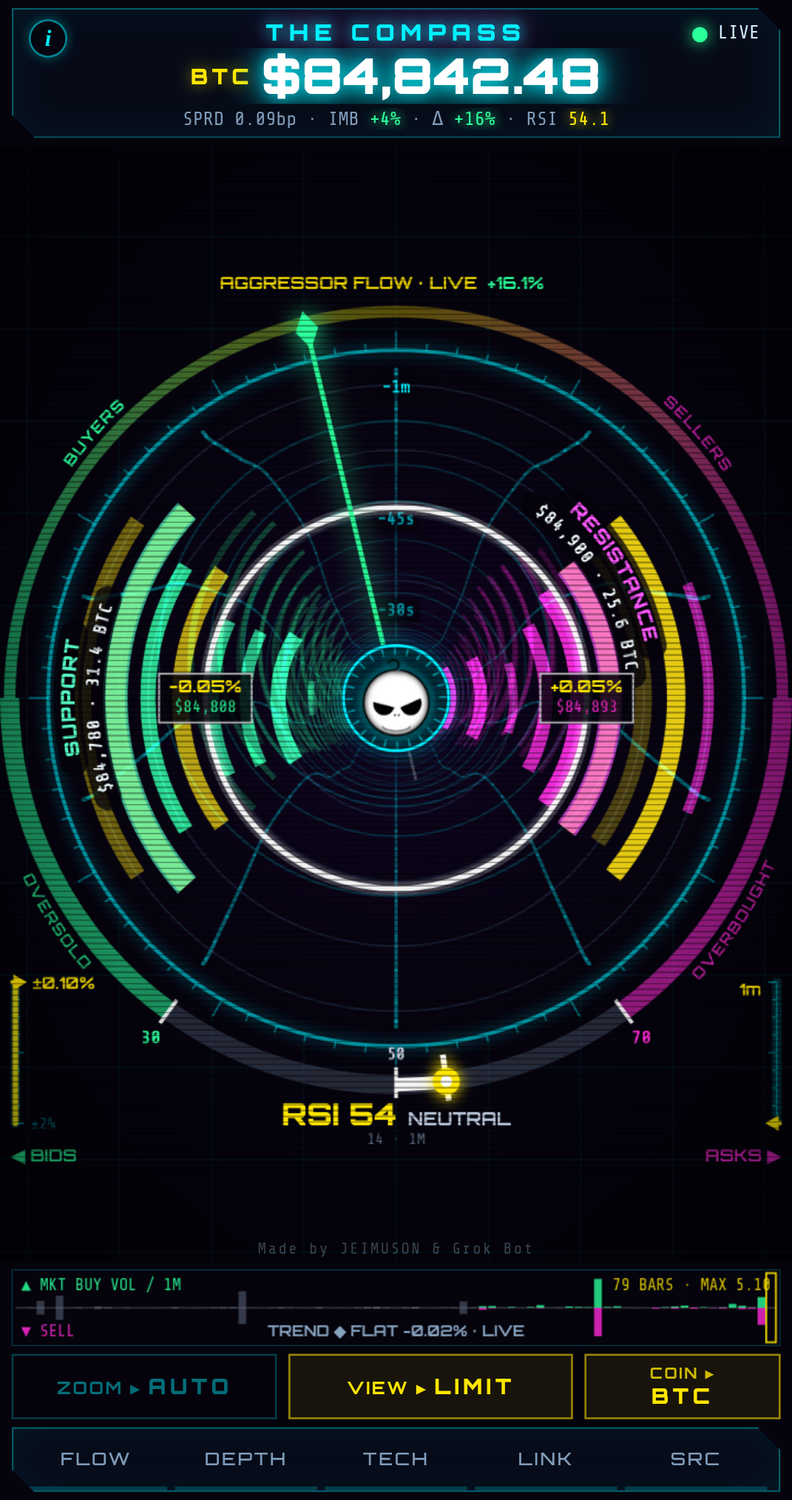
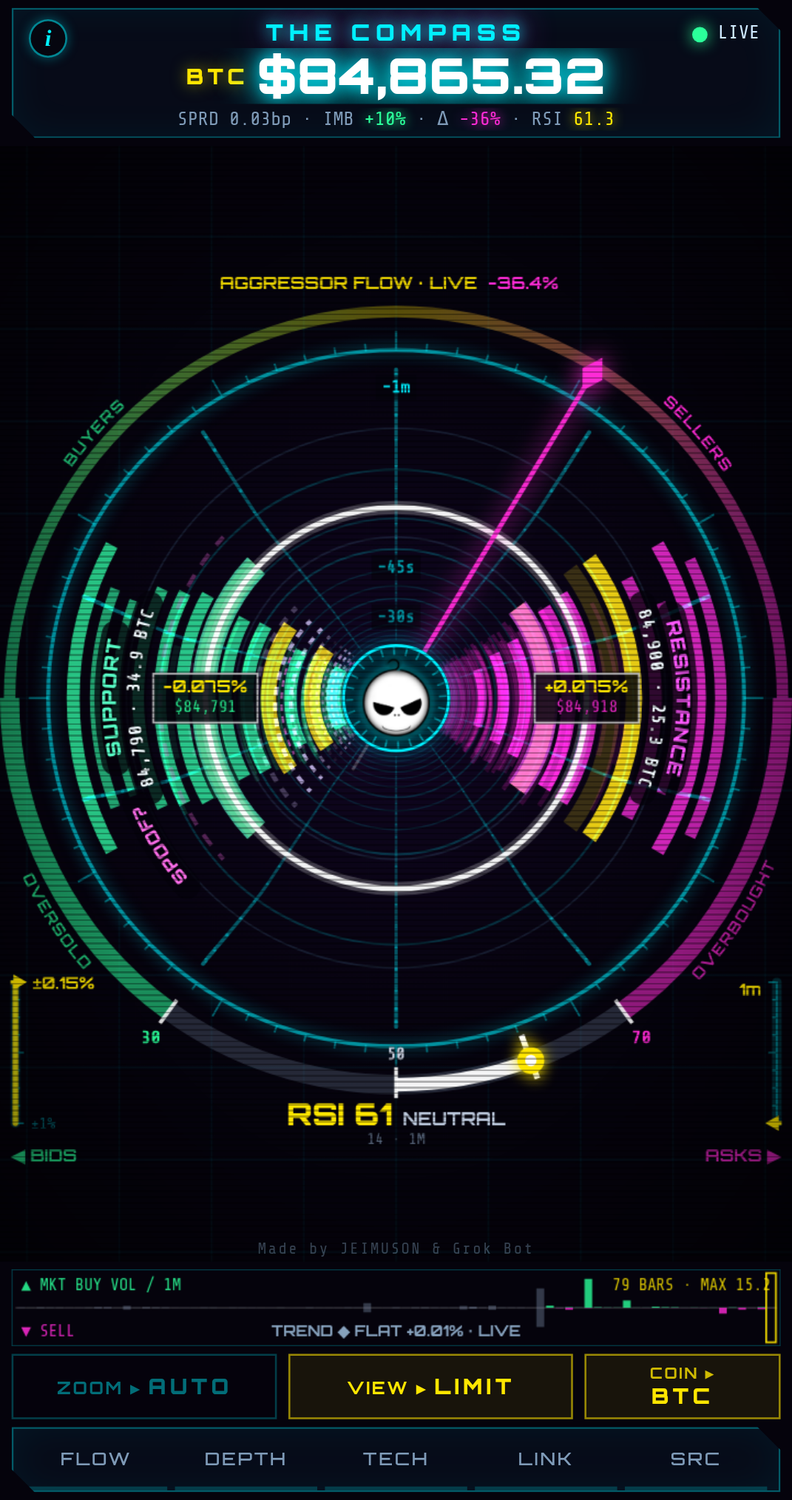
Build 20261003-1300: LIMIT declutter (labels outside halfway circle, no ring price tags/BOOK EDGE text); price AUTO driven by traffic, range ±0.15–1%

diff --git a/index.html b/index.html
@@ -3,7 +3,7 @@
 <head>
 <meta charset="utf-8">
 <meta http-equiv="Cache-Control" content="no-cache, no-store, must-revalidate"><meta http-equiv="Pragma" content="no-cache"><meta http-equiv="Expires" content="0">
-<script>window.OFC_BUILD='20261003-1205';try{localStorage.removeItem('ofc.trail')}catch(e){};(function(){try{if(!/^https?:/.test(location.protocol))return;fetch(location.pathname+'?_='+Date.now(),{cache:'no-store'}).then(r=>r.text()).then(t=>{const m=t.match(/OFC_BUILD='([^']+)'/);if(m&&m[1]!==window.OFC_BUILD&&sessionStorage.getItem('ofcB')!==m[1]){sessionStorage.setItem('ofcB',m[1]);location.replace(location.pathname+'?v='+m[1]+location.hash);}}).catch(()=>{});}catch(e){}})();</script>
+<script>window.OFC_BUILD='20261003-1300';try{localStorage.removeItem('ofc.trail')}catch(e){};(function(){try{if(!/^https?:/.test(location.protocol))return;fetch(location.pathname+'?_='+Date.now(),{cache:'no-store'}).then(r=>r.text()).then(t=>{const m=t.match(/OFC_BUILD='([^']+)'/);if(m&&m[1]!==window.OFC_BUILD&&sessionStorage.getItem('ofcB')!==m[1]){sessionStorage.setItem('ofcB',m[1]);location.replace(location.pathname+'?v='+m[1]+location.hash);}}).catch(()=>{});}catch(e){}})();</script>
 <script>/* viewport height guard: Android standalone PWAs can report a stale/too-tall 100dvh right after a reload (e.g. coin switch) -> size from the smallest sane measurement and keep re-checking */
 (function(){var R=document.documentElement;function m(){var v=window.visualViewport,c=[window.innerHeight,R.clientHeight];if(v&&v.height>0)c.push(v.height);c=c.filter(function(x){return x>100;});if(!c.length)return;
   var h=Math.round(Math.min.apply(null,c))+'px';if(R.style.getPropertyValue('--apph')!==h){R.style.setProperty('--apph',h);try{window.dispatchEvent(new Event('ofc-vh'));}catch(e){}}}
@@ -198,7 +198,7 @@ body.hublogo #top .logo{display:none}   /* mobile: logo lives in the compass hub
  <ul><li>Arcs are <b>walls</b> of waiting orders: <b class="gr">buyers left</b>, <b class="rd">sellers right</b>.</li>
  <li>Distance from the middle = distance from the current price.</li>
  <li>Bigger, brighter arc = bigger wall.</li>
- <li><b>Price zoom</b> (bar opposite the time bar, ±0.1%–±2%): out shows walls further from price, in spreads the near ones. Phone: swipe ←/→ for price, ↑/↓ for time. Desktop: shift+wheel or the bar. <b>AUTO</b> fits the biggest bid and ask walls in clean steps (±0.1/0.2/0.5/1/2%; the white halfway circle's boxes show price and ±% there); zooming price by hand turns price AUTO off.</li>
+ <li><b>Price zoom</b> (bar opposite the time bar, ±0.15%–±1%): out shows walls further from price, in spreads the near ones. Phone: swipe ←/→ for price, ↑/↓ for time. Desktop: shift+wheel or the bar. <b>AUTO</b> follows traffic, like time AUTO: dead-slow ±0.15%, normal ±0.5%, busy or a burst ±1%, in clean steps (±0.15/0.25/0.5/0.75/1%; the white halfway circle's boxes show price and ±% there); zooming price by hand turns price AUTO off.</li>
  <li>New walls start at the center and drift outward over time. A wall that stays is <b>holding</b>; one that vanishes was <b>pulled or eaten</b>.</li>
  <li><b class="gr">SUPPORT</b> / <b class="rd">RESISTANCE</b> = the strongest nearby wall on each side.</li>
  <li><b>EATEN</b> (bright bite flash) = a wall shrank while trades hit its price. <b>PULLED</b> (ghostly dashed outline) = it vanished with little trading there; repeat pulls in one zone = <b>SPOOF?</b> Just a hint: intent can't be proven.</li></ul>
@@ -372,14 +372,15 @@ let needle=0, needleV=0;
 try{localStorage.removeItem('ofc.win');localStorage.removeItem('ofc.flowCache.v1');}catch(e){}
 const WL=sec=>sec<=60?'LIVE':sec<3600?(sec/60)+'M':(sec/3600)+'H';
 let rangeAuto=(()=>{try{return localStorage.getItem('ofc.autoZoom')!=='0';}catch(e){return true;}})(), rangeFrac=0.006, dispRange=0.006, PRANGE=0.006, PFIT=0.006;
-// LIMIT PRICE ZOOM (manual, per coin): half-range around price at the outer ring, ±0.1% .. ±2% (log); AUTO never touches it. Drawn range PRANGE eases to PZ.
-const PZMIN=0.001,PZMAX=0.02,PCUT=0.023,PZDEF={XRP:0.01,BTC:0.016,ETH:0.013,SOL:0.012,DOGE:0.02,ADA:0.013,LINK:0.016,LTC:0.017,AVAX:0.015,XLM:0.02};
+// LIMIT PRICE ZOOM (per coin): half-range around price at the outer ring, ±0.15% .. ±1% (log). Drawn range PRANGE eases to PZ.
+const PZMIN=0.0015,PZMAX=0.01,PCUT=0.023,PZDEF={XRP:0.005,BTC:0.005,ETH:0.005,SOL:0.005,DOGE:0.0075,ADA:0.005,LINK:0.005,LTC:0.005,AVAX:0.005,XLM:0.0075};
 let PZ=(()=>{let v=NaN;try{v=parseFloat(localStorage.getItem('ofc.pz.'+COIN));}catch(e){}return v>=PZMIN&&v<=PZMAX?v:(PZDEF[COIN]||0.012);})();PRANGE=PZ;
-const fmtPct=v=>{const p=v*100;return (p<0.995?p.toFixed(2):p.toFixed(1))+'%';};
+const fmtPct=v=>{const p=v*100;return (p<0.995?String(+p.toFixed(3)):p.toFixed(1))+'%';};   // 0.075%, 0.15%, 0.5%, 1.0%
 let ZRD={txt:'',t:-1e9};function zRead(t){ZRD={txt:t,t:performance.now()};}   // brief on-screen zoom readout
-// LIMIT price AUTO (same AUTO toggle): fit the biggest significant bid + ask wall (within ±2%, KEY-wall score) with 15% margin, ~10 s smoothed,
-// snapped to clean steps so the halfway-circle readouts show round ±% numbers. Hysteresis: widen after 3 s, narrow only with 15% spare room held 15 s. Manual price zoom turns it off.
-const PSTEPS=[0.001,0.002,0.005,0.01,0.02];   // halfway readouts then read ±0.05/0.1/0.25/0.5/1%
+// LIMIT price AUTO (same AUTO toggle): driven by TRAFFIC (LT.q = MARKET's 60 s USD rate / 10-min EMA, same as time AUTO):
+// q<=0.25 -> ±0.15%, q=1 -> ±0.5%, q>=2 or burst -> ±1% (log-interpolated), ~10 s smoothed, snapped to clean steps (halfway boxes read ±0.075/0.125/0.25/0.375/0.5%).
+// Hysteresis: step only when 8% past the log-midpoint to the next step; widen after 3 s, narrow after 15 s. Manual price zoom turns it off.
+const PSTEPS=[0.0015,0.0025,0.005,0.0075,0.01];   // ±0.15/0.25/0.5/0.75/1%
 let PAUTO=(()=>{try{return localStorage.getItem('ofc.pauto')!=='0';}catch(e){return true;}})(),PA={want:0,since:0,req:0,ch:0};
 function setPAuto(v){PAUTO=!!v;PA.since=0;PA.want=0;try{localStorage.setItem('ofc.pauto',v?'1':'0');}catch(e){}}
 let pzSaveT=0;function setPZ(v){setPAuto(false);PZ=Math.min(PZMAX,Math.max(PZMIN,v));clearTimeout(pzSaveT);pzSaveT=setTimeout(()=>{try{localStorage.setItem('ofc.pz.'+COIN,PZ.toFixed(5));}catch(e){}},300);zRead('±'+fmtPct(PZ));}   // dispRange = zoom-bar state; PRANGE = price range actually drawn
@@ -659,15 +660,14 @@ function combine(){
   mid=simPx(one?(bestBid+bestAsk)/2:M);if(!dispMid)dispMid=mid;BREADY=true;
 }
 setInterval(()=>{if(combDirty)combine();},LOWDEV()?250:150);
-setInterval(()=>{if(!PAUTO||!BREADY||!mid||VIEW!=='limit')return;const lim=mid*PZMAX,n=Date.now();
-  const pick=lv=>{let best=null,bs=-1;for(const x of lv){const d=Math.abs(x[0]-mid);if(d>lim)continue;const sc=x[1]*(1-0.45*d/lim);if(sc>bs){bs=sc;best=x;}}return best;};
-  const b=pick(sortedB),a=pick(sortedA);if(!b||!a)return;
-  const raw=Math.max(mid-b[0],a[0]-mid)/mid*1.15;PA.req=PA.req?PA.req+(raw-PA.req)*0.1:raw;PA.b=b[0];PA.a=a[0];
-  const fit=PSTEPS.find(x=>x>=PA.req)||PZMAX;
-  if(!PSTEPS.includes(PZ)){PZ=fit;PA.ch++;return;}   // entering AUTO: snap to the clean step that fits
-  const want=fit>PZ||(fit<PZ&&PA.req<=0.85*fit)?fit:PZ;
-  if(want===PZ){PA.want=0;return;}
-  if(PA.want!==want){PA.want=want;PA.since=n;}else if(n-PA.since>=(want>PZ?3000:15000)){PZ=want;PA.want=0;PA.ch++;}},1000);
+const pzOfQ=q=>{const l=Math.log2(Math.max(0.25,Math.min(2,q)));return l<0?0.005*Math.pow(0.3,-l/2):0.005*Math.pow(2,l);};   // 0.25->0.15%, 1->0.5%, 2->1%
+setInterval(()=>{if(!PAUTO||!mid||VIEW!=='limit')return;const n=Date.now(),busy=n<burst.until;
+  const raw=busy?PZMAX:pzOfQ(LT.q||1);PA.q=LT.q;PA.req=busy?raw:(PA.req?PA.req+(raw-PA.req)*0.1:raw);
+  let i=PSTEPS.indexOf(PZ);
+  if(i<0){PZ=PSTEPS.reduce((a,x)=>Math.abs(Math.log(x/PA.req))<Math.abs(Math.log(a/PA.req))?x:a);PA.ch++;return;}   // entering AUTO: snap to the nearest clean step
+  let j=i;while(j<PSTEPS.length-1&&PA.req>Math.sqrt(PSTEPS[j]*PSTEPS[j+1])*1.08)j++;while(j>0&&PA.req<Math.sqrt(PSTEPS[j-1]*PSTEPS[j])/1.08)j--;
+  const want=PSTEPS[j];if(want===PZ){PA.want=0;return;}
+  if(PA.want!==want){PA.want=want;PA.since=n;}else if(n-PA.since>=(want>PZ?(busy?0:3000):15000)){PZ=want;PA.want=0;PA.ch++;}},1000);
 let VEDGE={bid:[],ask:[]};   // [price, venue] where that venue's USD book ends, nearest first (only edges inside ±PZMAX)
 setInterval(()=>{if(!mid||VIEW!=='limit')return;const E={};for(const B of useB().filter(B=>!B.q)){/* each venue's main USD book (stable books are thin extras with sparse outlier quotes) */let mb=Infinity,ma=0;for(const p of B.b.keys())if(p<mb)mb=p;for(const p of B.a.keys())if(p>ma)ma=p;if(!(mb<Infinity)||!ma)continue;
     const e=E[B.v]||(E[B.v]={b:Infinity,a:0});e.b=Math.min(e.b,mb);e.a=Math.max(e.a,ma);}
@@ -1055,9 +1055,8 @@ let PLBL=[];
 const PF=p=>'$'+(CC.pf>=4?p.toFixed(CC.pf):fmtX(p,CC.pf));
 let HALF=null;   // halfway readout boxes (geometry from drawPriceRings)
 function drawHalfBoxes(){if(!HALF)return;const {w,h,f1,f2,rh}=HALF,T=Math.PI*2,lw=WIDE?Math.min(5,Math.max(3.2,RMAX/90)):2.8;
-  // halfway circle: drawn ABOVE the wall arcs (soft white glow + crisp core); gapped where a SUPPORT/RESISTANCE label crosses its radius
-  const G=[];for(const sd of ['bid','ask']){const k=KLB[sd];if(k&&k.th!=null&&k.r0<rh+lw&&k.r1>rh-lw){const g=k.ah+0.03,n=(((k.th-g)%T)+T)%T;G.push([n,n+2*g]);}}
-  const segs=[];if(!G.length)segs.push([0,T]);else{G.sort((a,b)=>a[0]-b[0]);for(let i=0;i<G.length;i++){const e=G[i][1],ns=i+1<G.length?G[i+1][0]:G[0][0]+T;if(ns>e)segs.push([e,ns]);}}
+  // halfway circle: drawn ABOVE the wall arcs (soft white glow + crisp core)
+  const segs=[[0,T]];   // labels now always sit outside the circle -> no gaps needed
   ctx.save();ctx.lineCap='round';
   for(const [st,lwp,blur,a] of [['rgba(255,255,255,.22)',lw+4,Q>0?18:0,1],['rgba(255,255,255,.93)',lw,Q>0?7:0,1]]){ctx.strokeStyle=st;ctx.lineWidth=lwp;ctx.shadowColor='rgba(255,255,255,.9)';ctx.shadowBlur=blur;
     ctx.beginPath();for(const [a0,a1] of segs){ctx.moveTo(CX+Math.cos(a0)*rh,CY+Math.sin(a0)*rh);ctx.arc(CX,CY,rh,a0,a1);}ctx.stroke();}
@@ -1068,13 +1067,7 @@ function drawHalfBoxes(){if(!HALF)return;const {w,h,f1,f2,rh}=HALF,T=Math.PI*2,l
     ctx.font=`${f2}px "Share Tech Mono",monospace`;ctx.fillStyle=side==='bid'?'rgba(43,255,154,.95)':'rgba(255,43,214,.95)';ctx.fillText(p,x,by+f1+5);}
   ctx.restore();}
 function drawPriceLabels(){   // LIMIT: ring prices on the horizontal axis, over the walls
-  drawHalfBoxes();if(!PLBL.length)return;ctx.save();ctx.font=`${WIDE?10:9}px "Share Tech Mono",monospace`;ctx.textAlign='center';ctx.textBaseline='top';
-  PLBL=PLBL.filter(q=>{const K=KLB[q.side];if(!K)return true;const d=Math.abs(q.cx-CX);return d+q.w/2<K.r0||d-q.w/2>K.r1;});   // never draw over SUPPORT/RESISTANCE text
-  if(!PLBL.length){ctx.restore();return;}
-  for(const q of PLBL){ctx.fillStyle='rgba(5,3,12,.72)';ctx.fillRect(q.x,q.y,q.w,q.h);ctx.fillStyle=q.side==='bid'?'rgba(43,255,154,.9)':'rgba(255,43,214,.9)';ctx.fillText(q.txt,q.cx,q.y+2);}
-  const o=PLBL.filter(q=>q.side==='bid').sort((a,b)=>a.x-b.x)[0];
-  if(o){ctx.font=`700 ${WIDE?9:8}px "Share Tech Mono",monospace`;ctx.fillStyle='rgba(200,215,235,.75)';ctx.fillText('PRICE',o.cx,o.y+o.h+1);}
-  ctx.restore();}
+  drawHalfBoxes();}   // decluttered: the per-ring price tags + 'PRICE' caption are gone; the two fixed halfway boxes are the price readout
 function drawPriceRings(){
   if(!dispMid)return;
   ctx.save();
@@ -1091,9 +1084,6 @@ function drawPriceRings(){
   if(VIEW!=='market')for(let d=nice;d<=span*1.001;d+=nice){ri++;
     const r=rOf(d);
     ctx.strokeStyle='rgba(120,200,255,0.13)';ctx.lineWidth=1;ctx.beginPath();ctx.arc(CX,CY,r,0,Math.PI*2);ctx.stroke();
-    for(const [side,px,x] of [['bid',dispMid-d,CX-r],['ask',dispMid+d,CX+r]]){const txt=PF(px),w=ctx.measureText(txt).width+6,bx=x-w/2,by=CY+4,bh=(WIDE?10:9)+4;
-      if(bx<2||bx+w>W-2||PLBL.some(q=>bx<q.x+q.w+3&&bx+w+3>q.x&&Math.abs(q.y-by)<bh)||lblHit(bx,by,w,bh))continue;
-      PLBL.push({x:bx,y:by,w,h:bh,txt,side,cx:x});lblReserve(bx,by,w,bh);}
   }
   // outer bezel
   ctx.strokeStyle='rgba(0,240,255,0.55)';ctx.lineWidth=2;ctx.shadowColor='#00f0ff';ctx.shadowBlur=14;
@@ -1163,16 +1153,18 @@ function drawKeyWalls(now,maxq){   // SUPPORT (bid) / RESISTANCE (ask): highligh
     ctx.save();ctx.globalCompositeOperation='source-over';ctx.strokeStyle=rgba(cc,(0.95*pl).toFixed(3));ctx.lineWidth=lw+2.5;ctx.shadowColor=rgba(c,1);ctx.shadowBlur=Q>0?(LOW?16:28):0;
     ctx.beginPath();ctx.arc(CX,CY,r,a0-sp,a0+sp);ctx.stroke();ctx.restore();
     // text: centred on the angular midpoint of its own wall arc (a0), following the curve, upright (outward-facing); font shrinks with the arc, fades when too small
-    const base1=WIDE?Math.round(Math.max(12,Math.min(16,RMAX/27))):10, sc=Math.max(0.62,Math.min(1,(r-R0)/(RMAX*0.28)));
-    const L1=`${PF(px)} · ${fmtQ(q)} ${UNIT}`,L2=side==='bid'?'SUPPORT':'RESISTANCE', allow=Math.min(1.45,Math.max(0.55,2*sp+0.5));   // text may overhang a short arc a little
-    const lay=k=>{const fs1=Math.max(7,Math.round(base1*sc*k)),fs2=Math.max(7,fs1-1),R1=r+lw/2+4,R2=R1+fs2+3,F1=`700 ${fs2}px "Share Tech Mono",monospace`,F2=`900 ${fs1}px Orbitron,sans-serif`;
+    const base1=WIDE?Math.round(Math.max(12,Math.min(16,RMAX/27))):10, sc=Math.max(0.62,Math.min(1,(Math.max(r,HALF?HALF.r1:0)-R0)/(RMAX*0.28)));   // scale by where the text sits (outside the circle), not the wall
+    const L1u=`${PF(px).replace('$','')} · ${fmtQ(q)} ${UNIT}`,L1n=`${PF(px).replace('$','')} · ${fmtQ(q)}`,L2=side==='bid'?'SUPPORT':'RESISTANCE', allow=Math.min(1.45,Math.max(0.55,2*sp+0.5));
+    const Rmin=HALF?HALF.r1+(WIDE?10:7):0;   // always outside the halfway circle AND its readout boxes (open space), never near the hub
+    let L1=L1u;   // text may overhang a short arc a little
+    const lay=k=>{const fs1=Math.max(7,Math.round(base1*sc*k)),fs2=Math.max(7,fs1-1),R1=Math.max(r+lw/2+4,Rmin),R2=R1+fs2+3,F1=`700 ${fs2}px "Share Tech Mono",monospace`,F2=`900 ${fs1}px Orbitron,sans-serif`;
       ctx.font=F1;const w1=ctx.measureText(L1).width/R1;ctx.font=F2;const w2=ctx.measureText(L2).width/R2;return {fs1,fs2,R1,R2,F1,F2,totM:Math.max(w1,w2)};};
-    let LY=lay(1);if(LY.totM>allow)LY=lay(Math.max(0.72,allow/LY.totM));   // short arc -> shrink the text (down to 72%) ...
+    let LY=lay(1);if(LY.totM>allow){L1=L1n;LY=lay(1);}   // drop the unit if it doesn't fit cleanly
+    if(LY.totM>allow)LY=lay(Math.max(0.72,allow/LY.totM));   // short arc -> shrink the text (down to 72%) ...
     const {fs1,fs2,R1,R2,F1,F2,totM}=LY;
-    let al=Math.max(0,Math.min(1,(r-R0*1.12)/(R0*0.45)))*Math.max(0,Math.min(1,(allow*1.35-totM)/(allow*0.35)));   // ... then fade if still too long / too close to the hub
+    let al=Math.max(0,Math.min(1,(R1-R0*1.12)/(R0*0.45)))*Math.max(0,Math.min(1,(allow*1.35-totM)/(allow*0.35)));   // ... then fade if still too long / too close to the hub
     if(al<=0.03)continue;KLB[side]={r0:R1-3,r1:R2+fs1+3,ah:totM/2+0.04};
-    let TH=a0;if(HALF&&R2+fs1+3>HALF.r0-4&&R1-3<HALF.r1+4)TH=a0+(side==='bid'?1:-1)*(totM/2+(HALF.h/2+6)/R1);   // clear the halfway readout box: slide the text up along its arc
-    KLB[side].th=TH;
+    const TH=a0;
     ctx.save();ctx.globalAlpha=al;ctx.textAlign='center';ctx.textBaseline='alphabetic';
     for(const [txt,R,font,col,glow] of [[L1,R1,F1,'#f2fbff',0],[L2,R2,F2,rgba(cc,1),10]]){
       ctx.font=font;const fz=parseFloat(font.split(' ')[1]),th=TH,T=arcText(txt,R,th);
@@ -1261,17 +1253,14 @@ function drawSpoofFx(now){   // front layer: EATEN/bite flash; PULLED ghost at t
     const u=age/SP_GHOST,fl=0.6+0.4*Math.sin(now/70+o.px*911),col=o.spoof?'255,110,235':'215,200,255';
     ctx.save();ctx.setLineDash([7,6]);ctx.lineDashOffset=-now/45;ctx.lineWidth=2.2;ctx.strokeStyle=`rgba(${col},${((1-u)*0.85*fl).toFixed(3)})`;ctx.shadowColor=`rgba(${col},.9)`;ctx.shadowBlur=Q>0?10:0;
     ctx.beginPath();ctx.arc(CX,CY,r,a0-sp,a0+sp);ctx.stroke();ctx.restore();
-    if(o.big||o.spoof){const fz=WIDE?11:9,txt=o.spoof?'SPOOF?':'PULLED',R=r+fz*0.4+6;ctx.save();ctx.font=`900 ${fz}px Orbitron,sans-serif`;const ht=ctx.measureText(txt).width/R/2+0.02;ctx.restore();
+    if(o.big||o.spoof){const fz=WIDE?11:9,txt=o.spoof?'SPOOF?':'PULLED',R=Math.max(r+fz*0.4+6,HALF?HALF.r1+fz+(WIDE?10:7):0);ctx.save();ctx.font=`900 ${fz}px Orbitron,sans-serif`;const ht=ctx.measureText(txt).width/R/2+0.02;ctx.restore();
       const K=KLB[o.side],off=Math.max(ht+Math.max(0.12,22/R),K&&R+fz>K.r0&&R-fz<K.r1?K.ah+ht+0.04:0),ta=a0+(o.side==='bid'?-off:off);   // just below the horizon (clear of price tags), past SUPPORT/RESISTANCE text
-      spTag(txt,R,ta,o.spoof?'#ff6eeb':'#d7c8ff',Math.min(1,(1-u)*1.6)*Math.max(0,Math.min(1,(r-R0*1.12)/(R0*0.45))),fz);}}
+      spTag(txt,R,ta,o.spoof?'#ff6eeb':'#d7c8ff',Math.min(1,(1-u)*1.6)*Math.max(0,Math.min(1,(R-R0*1.12)/(R0*0.45))),fz);}}   // PULLED/SPOOF? tag always outside the halfway circle
 }
 let topWallsOld;
 function drawBookEdge(){   // faint dashed arc where a venue's book runs out inside the visible price range (+ which venues)
   for(const side of ['bid','ask']){const L=VEDGE[side].filter(([p])=>rOf(p-dispMid)<=RMAX);if(!L.length)continue;const r=rOf(L[0][0]-dispMid);if(r<R0*1.15)continue;
     const a0=baseAng(side),sp=MAXSPAN+0.12;ctx.save();ctx.setLineDash([3,6]);ctx.strokeStyle='rgba(160,190,220,.28)';ctx.lineWidth=1;ctx.beginPath();ctx.arc(CX,CY,r,a0-sp,a0+sp);ctx.stroke();ctx.setLineDash([]);
-    if(r>R0*2.2){const ta=side==='bid'?Math.PI-0.95:0.95,fz=WIDE?9:8,tx=CX+Math.cos(ta)*r,ty=CY+Math.sin(ta)*r,txt='BOOK EDGE '+L.map(x=>VEN[x[1]].t).join('·');   // lower quadrant of its own side
-      ctx.font=`${fz}px "Share Tech Mono",monospace`;const w=ctx.measureText(txt).width+6;ctx.fillStyle='rgba(5,3,12,.7)';ctx.fillRect(tx-w/2,ty-fz/2-2,w,fz+4);
-      ctx.fillStyle='rgba(160,190,220,.6)';ctx.textAlign='center';ctx.textBaseline='middle';ctx.fillText(txt,tx,ty);}
     ctx.restore();}}
 function drawBook(now){
   if(!BREADY||!sortedB.length)return;
@@ -1816,7 +1805,7 @@ function drawZoomBar(now){
     ctx.font='700 12px Orbitron,sans-serif';if(on&&Q>0){ctx.shadowColor='#ffe600';ctx.shadowBlur=8;}ctx.fillText('AUTO',tx+w1,py+ph/2+4.5);ctx.shadowBlur=0;}
   ctx.restore();
 }
-// LIMIT price-zoom bar: mirror of the time bar on the opposite side; top = tight (±0.1%), bottom = wide (±2%), log scale
+// LIMIT price-zoom bar: mirror of the time bar on the opposite side; top = tight (±0.15%), bottom = wide (±1%), log scale
 function pbarGeom(){if(VIEW!=='limit')return null;const Z=zbarGeom();if(!Z)return null;return {x:Math.max(8,Math.min(W-8,2*CX-Z.x)),y0:Z.y0,y1:Z.y1};}
 const pzT=v=>Math.max(0,Math.min(1,Math.log(PZMAX/v)/Math.log(PZMAX/PZMIN))), pzV=t=>PZMAX*Math.pow(PZMIN/PZMAX,Math.max(0,Math.min(1,t)));
 function drawPriceBar(){const P=pbarGeom();if(!P)return;const {x,y0,y1}=P,t=pzT(PRANGE),ty=y1-(y1-y0)*t,col=PAUTO?'0,240,255':'255,230,0';
@@ -1828,7 +1817,7 @@ function drawPriceBar(){const P=pbarGeom();if(!P)return;const {x,y0,y1}=P,t=pzT(
   ctx.fillStyle=`rgb(${col})`;ctx.beginPath();ctx.moveTo(x+6,ty);ctx.lineTo(x-1,ty-4);ctx.lineTo(x-1,ty+4);ctx.closePath();ctx.fill();ctx.fillRect(x-2.5,ty-1,4,2);ctx.shadowBlur=0;
   const ly=Math.max(y0+3,Math.min(y1+3,ty+3.5));ctx.textAlign='left';
   ctx.font=`${WIDE?9:8}px "Share Tech Mono",monospace`;ctx.fillStyle='rgba(0,240,255,.4)';   // scale ends (tight / wide), hidden when the value label sits on them
-  if(ly-(y0+3)>13)ctx.fillText('±0.1%',x+8,y0+3);if((y1+3)-ly>13)ctx.fillText('±2%',x+8,y1+3);
+  if(ly-(y0+3)>13)ctx.fillText('±0.15%',x+8,y0+3);if((y1+3)-ly>13)ctx.fillText('±1%',x+8,y1+3);
   ctx.font=`700 ${WIDE?10:8.5}px Orbitron,sans-serif`;ctx.fillStyle=`rgba(${col},.95)`;ctx.fillText('±'+fmtPct(PZ),x+9,ly);   // current value, beside the marker
   ctx.restore();}
 function drawZRead(now){const a=now-ZRD.t;if(a>1300||!ZRD.txt)return;const al=a<650?1:1-(a-650)/650;ctx.save();ctx.globalAlpha=al;const fz=WIDE?24:20;ctx.font=`900 ${fz}px Orbitron,sans-serif`;
@@ -1957,7 +1946,7 @@ function frame(){
 connect();seedREST();
 requestAnimationFrame(frame);
 document.addEventListener('visibilitychange',()=>{if(!document.hidden&&(!ws||ws.readyState>1)){backoff=1000;connect();}});
-window.__ofc={pillTap(){pillT=0;pillTap();},setAuto(v){setAuto(v);},get zst(){return {pa:PAUTO,ra:rangeAuto,ao:autoOn()};},simEat(ms,kind,hold,px){EAT={t0:Date.now(),ms,kind:kind||'eat',hold:hold==null?0:hold,px:px||0,q0:0,lq:null};},get spoof(){return {n:{...SPF.n},trk:SPF.trk.size,ev:SPF.ev.slice(-6).map(o=>({k:o.kind,s:o.side,px:o.px,q0:+o.q0.toFixed(1),q1:+o.q1.toFixed(1),ratio:o.ratio,spoof:o.spoof,big:o.big,ven:o.ven}))}},get eat(){const n=performance.now();return EAT&&{px:EAT.px,q0:EAT.q0,ref:REFQ,cp:history.filter((h,i)=>i%8===0&&(n-h.t)/1000<=LWIN).map(h=>{const e=h.b.find(x=>x[0]===EAT.px);return e?[Math.round((n-h.t)/1000),+levelSpan(e[1],REFQ||h.maxq).toFixed(3)]:null;}).filter(Boolean)}},get mt(){return {w:+MT.w.toFixed(1),q:+MT.q.toFixed(2),z:+MT.z.toFixed(2),sg:MT.sg,burst:burst.on}},get lt(){return {w:+LT.w.toFixed(1),q:+LT.q.toFixed(2),mq:+MT.q.toFixed(2),rho:+LT.rho.toFixed(2),lwin:+LWIN.toFixed(1),burst:burst.on}},get keyWalls(){return VIEW==='limit'?{...KEYW,nSig:{bid:topWalls.bid.length,ask:topWalls.ask.length},marks:PLBL.map(q=>q.txt)}:null},simFlat(){SIM={on:true,base:mid,t0:0,dir:0,amp:0,ramp:1};},simMove(dir,frac,ramp){SIM.t0=Date.now();SIM.dir=dir;SIM.amp=frac*SIM.base;SIM.ramp=ramp;},get resp(){const v=proj(HIST_SEC),m=proj(HIST_SEC*0.4);return {tw:+(TWIST_MAX*VSP.w*180/Math.PI).toFixed(2),vp:+(v.y-CY).toFixed(1),vm:+(m.y-CY).toFixed(1),o3:+((window.__ofcR||{}).o3||0).toFixed(1),o8:+((window.__ofcR||{}).o8||0).toFixed(1),mw:+MWIN.toFixed(1),dr:dispRange,pr:pathRef}},get bp(){return BP.length},autoOff(){pillT=0;if(rangeAuto)pillTap();},get dr(){return dispRange},get hubLogo(){return !WIDE&&LOGO.complete&&LOGO.naturalWidth>0},get hdrLogo(){const e=document.querySelector('#top .logo');return !!e&&getComputedStyle(e).display!=='none'},get flares(){return VIEW==='market'?[...FLR.entries()].map(([k,F])=>{const p=F.dx!=null?{x:F.dx,y:F.dy}:null;return {k,T:F.T,tT:trailT,st:trailStep,w:+F.w.toFixed(2),on:!!F.on,side:F.c===COL.bid?'bid':'ask',x:p?Math.round(p.x):null,y:p?Math.round(p.y):null};}):null},winTo(S){intro=null;setAuto(false);syncZA();let lo=0,hi=1;const f=u=>mWinOf(zR(u));const dec=f(0)>f(1);for(let i=0;i<40;i++){const m=(lo+hi)/2;if((f(m)>S)===dec)lo=m;else hi=m;}rangeFrac=zR((lo+hi)/2);return f((lo+hi)/2);},get vring(){if(VIEW!=='market')return null;const p=proj(HIST_SEC);return {full:+(RMAX*p.s).toFixed(1),r:+(RMAX*p.s).toFixed(1),x:Math.round(p.x),y:Math.round(p.y),R0:Math.round(R0)}},get twist(){return VIEW==='market'?+(TWIST_MAX*VSP.w*180/Math.PI).toFixed(1):0},get spin(){return {w:+VSP.w.toFixed(3),ph:+VSP.ph.toFixed(3)}},zManual(){intro=null;setAuto(false);syncZA();},get burst(){return {...burst,now:Date.now()}},simBurst(usd){const px=trades.length?trades[trades.length-1].px:mid,n=Date.now();for(let k=0;k<8;k++)trades.push({t:n-(7-k)*300,side:k%2?'sell':'buy',qty:usd/8/px,px,v:'kraken'});trailDirty=true;},get auto(){return rangeAuto},zAuto(){intro=null;setAuto(true);syncZA();},zIn(){intro=null;setAuto(false);rangeFrac=zR(1);syncZA();},get mwin(){return +MWIN.toFixed(1)},get lwin(){return +LWIN.toFixed(1)},get prange(){return PRANGE},get disp(){return dispRange},get plbl(){return PLBL.map(q=>q.txt)},get hubTxt(){return mid?hubTxt():null},get head(){return {x:Math.round(TRHEAD.x),y:Math.round(TRHEAD.y),CX,CY,R0:Math.round(R0),RMAX:Math.round(RMAX)}},get logo(){const g=logoGeom();return g&&{x:Math.round(g.x),y:Math.round(g.y),S:g.S,CX,CY,RMAX,W,H,Z:zbarGeom()}},get ven(){return Object.fromEntries(Object.entries(VEN).map(([k,v])=>[k,{st:v.st,share:+v.share.toFixed(3),books:BOOKS.filter(B=>B.v===k).map(B=>({k:B.k,q:B.q||'USD',off:!!B.off,prem:B.prem==null?null:+B.prem.toFixed(5),rate:+rateOf(k,B.q).toFixed(5),ready:B.ready,n:B.b.size+B.a.size,ck:B.ckOk,ckBad:B.ckBad,resyncs:B.resyncs}))}]))},get src(){return SRC},setSource,get bkDepth(){const m=mid;return BOOKS.filter(B=>B.ready).map(B=>{let mb=Infinity,ma=0;for(const p of B.b.keys())if(p<mb)mb=p;for(const p of B.a.keys())if(p>ma)ma=p;const f=rateOf(B.v,B.q);return B.k+' -'+((1-mb*f/m)*100).toFixed(2)+'% +'+((ma*f/m-1)*100).toFixed(2)+'%';})},get pz(){return {pauto:PAUTO,req:PA.req,ch:PA.ch,wb:PA.b,wa:PA.a,pz:PZ,pr:PRANGE,edge:VEDGE,bar:pbarGeom(),rd:ZRD.txt,nb:sortedB.length,na:sortedA.length,lo:sortedB.length?sortedB[sortedB.length-1][0]:0,hi:sortedA.length?sortedA[sortedA.length-1][0]:0}},setPZ,get rates(){return JSON.parse(JSON.stringify(RATE))},simPeg(v,q,r){if(r)PSIM[v+'|'+q]=r;else delete PSIM[v+'|'+q];},get sq(){return SQ},get peg(){return PEG},get rawQ(){const o={};for(const t of RAW){const k=t.v+':'+(t.q||'USD');o[k]=(o[k]||0)+1;}return o},get comb(){return {ready:BREADY,mid,bestBid,bestAsk,nb:sortedB.length,na:sortedA.length}},get raw(){return RAW.length},get flow(){const f=flow(30);return {b:Math.round(f.b),s:Math.round(f.s),r:+f.r.toFixed(3)}},get trendW(){return trendWin()},get win(){return winSec},get heatN(){return Object.fromEntries(Object.entries(HEATS).map(([w,H])=>[w,H.m.size]))},get intro(){return intro},book,get mid(){return mid},get ck(){return {ckOk,ckBad,ckLast}},get trades(){return tradeCount},get bubbles(){return bubbles.length},get hist(){return history.length},get ind(){return ind},get candles(){return candles.size},get dir(){return INBOUND?'in':'out'},get view(){return VIEW},get layout(){return {W,H,CX,CY,RMAX,R0,WIDE}},get tunnel(){const far=proj(HIST_SEC);return {FOCAL,farScale:far.s,farY:far.y-CY,dispRange,fitFrac,rangeAuto,RMAX}},zoom(f){setAuto(false);rangeFrac=Math.min(0.08,Math.max(0.0005,rangeFrac*f));},autoZoom(){setAuto(true);},get autoOn(){return rangeAuto},get zgeom(){return zbarGeom()},get conn(){return connState},get fps(){return FPS},get q(){return Q},get rc(){return reconnects},forceDrop(){ws&&ws.close();}};
+window.__ofc={pillTap(){pillT=0;pillTap();},setAuto(v){setAuto(v);},get zst(){return {pa:PAUTO,ra:rangeAuto,ao:autoOn()};},simEat(ms,kind,hold,px){EAT={t0:Date.now(),ms,kind:kind||'eat',hold:hold==null?0:hold,px:px||0,q0:0,lq:null};},get spoof(){return {n:{...SPF.n},trk:SPF.trk.size,ev:SPF.ev.slice(-6).map(o=>({k:o.kind,s:o.side,px:o.px,q0:+o.q0.toFixed(1),q1:+o.q1.toFixed(1),ratio:o.ratio,spoof:o.spoof,big:o.big,ven:o.ven}))}},get eat(){const n=performance.now();return EAT&&{px:EAT.px,q0:EAT.q0,ref:REFQ,cp:history.filter((h,i)=>i%8===0&&(n-h.t)/1000<=LWIN).map(h=>{const e=h.b.find(x=>x[0]===EAT.px);return e?[Math.round((n-h.t)/1000),+levelSpan(e[1],REFQ||h.maxq).toFixed(3)]:null;}).filter(Boolean)}},get mt(){return {w:+MT.w.toFixed(1),q:+MT.q.toFixed(2),z:+MT.z.toFixed(2),sg:MT.sg,burst:burst.on}},get lt(){return {w:+LT.w.toFixed(1),q:+LT.q.toFixed(2),mq:+MT.q.toFixed(2),rho:+LT.rho.toFixed(2),lwin:+LWIN.toFixed(1),burst:burst.on}},get keyWalls(){return VIEW==='limit'?{...KEYW,nSig:{bid:topWalls.bid.length,ask:topWalls.ask.length},marks:PLBL.map(q=>q.txt)}:null},simFlat(){SIM={on:true,base:mid,t0:0,dir:0,amp:0,ramp:1};},simMove(dir,frac,ramp){SIM.t0=Date.now();SIM.dir=dir;SIM.amp=frac*SIM.base;SIM.ramp=ramp;},get resp(){const v=proj(HIST_SEC),m=proj(HIST_SEC*0.4);return {tw:+(TWIST_MAX*VSP.w*180/Math.PI).toFixed(2),vp:+(v.y-CY).toFixed(1),vm:+(m.y-CY).toFixed(1),o3:+((window.__ofcR||{}).o3||0).toFixed(1),o8:+((window.__ofcR||{}).o8||0).toFixed(1),mw:+MWIN.toFixed(1),dr:dispRange,pr:pathRef}},get bp(){return BP.length},autoOff(){pillT=0;if(rangeAuto)pillTap();},get dr(){return dispRange},get hubLogo(){return !WIDE&&LOGO.complete&&LOGO.naturalWidth>0},get hdrLogo(){const e=document.querySelector('#top .logo');return !!e&&getComputedStyle(e).display!=='none'},get flares(){return VIEW==='market'?[...FLR.entries()].map(([k,F])=>{const p=F.dx!=null?{x:F.dx,y:F.dy}:null;return {k,T:F.T,tT:trailT,st:trailStep,w:+F.w.toFixed(2),on:!!F.on,side:F.c===COL.bid?'bid':'ask',x:p?Math.round(p.x):null,y:p?Math.round(p.y):null};}):null},winTo(S){intro=null;setAuto(false);syncZA();let lo=0,hi=1;const f=u=>mWinOf(zR(u));const dec=f(0)>f(1);for(let i=0;i<40;i++){const m=(lo+hi)/2;if((f(m)>S)===dec)lo=m;else hi=m;}rangeFrac=zR((lo+hi)/2);return f((lo+hi)/2);},get vring(){if(VIEW!=='market')return null;const p=proj(HIST_SEC);return {full:+(RMAX*p.s).toFixed(1),r:+(RMAX*p.s).toFixed(1),x:Math.round(p.x),y:Math.round(p.y),R0:Math.round(R0)}},get twist(){return VIEW==='market'?+(TWIST_MAX*VSP.w*180/Math.PI).toFixed(1):0},get spin(){return {w:+VSP.w.toFixed(3),ph:+VSP.ph.toFixed(3)}},zManual(){intro=null;setAuto(false);syncZA();},get burst(){return {...burst,now:Date.now()}},simBurst(usd){const px=trades.length?trades[trades.length-1].px:mid,n=Date.now();for(let k=0;k<8;k++)trades.push({t:n-(7-k)*300,side:k%2?'sell':'buy',qty:usd/8/px,px,v:'kraken'});trailDirty=true;},get auto(){return rangeAuto},zAuto(){intro=null;setAuto(true);syncZA();},zIn(){intro=null;setAuto(false);rangeFrac=zR(1);syncZA();},get mwin(){return +MWIN.toFixed(1)},get lwin(){return +LWIN.toFixed(1)},get prange(){return PRANGE},get disp(){return dispRange},get plbl(){return PLBL.map(q=>q.txt)},get hubTxt(){return mid?hubTxt():null},get head(){return {x:Math.round(TRHEAD.x),y:Math.round(TRHEAD.y),CX,CY,R0:Math.round(R0),RMAX:Math.round(RMAX)}},get logo(){const g=logoGeom();return g&&{x:Math.round(g.x),y:Math.round(g.y),S:g.S,CX,CY,RMAX,W,H,Z:zbarGeom()}},get ven(){return Object.fromEntries(Object.entries(VEN).map(([k,v])=>[k,{st:v.st,share:+v.share.toFixed(3),books:BOOKS.filter(B=>B.v===k).map(B=>({k:B.k,q:B.q||'USD',off:!!B.off,prem:B.prem==null?null:+B.prem.toFixed(5),rate:+rateOf(k,B.q).toFixed(5),ready:B.ready,n:B.b.size+B.a.size,ck:B.ckOk,ckBad:B.ckBad,resyncs:B.resyncs}))}]))},get src(){return SRC},setSource,get bkDepth(){const m=mid;return BOOKS.filter(B=>B.ready).map(B=>{let mb=Infinity,ma=0;for(const p of B.b.keys())if(p<mb)mb=p;for(const p of B.a.keys())if(p>ma)ma=p;const f=rateOf(B.v,B.q);return B.k+' -'+((1-mb*f/m)*100).toFixed(2)+'% +'+((ma*f/m-1)*100).toFixed(2)+'%';})},get pz(){return {pauto:PAUTO,req:PA.req,ch:PA.ch,q:LT.q,lw:LT.w,pz:PZ,pr:PRANGE,edge:VEDGE,bar:pbarGeom(),rd:ZRD.txt,nb:sortedB.length,na:sortedA.length,lo:sortedB.length?sortedB[sortedB.length-1][0]:0,hi:sortedA.length?sortedA[sortedA.length-1][0]:0}},setPZ,get rates(){return JSON.parse(JSON.stringify(RATE))},simPeg(v,q,r){if(r)PSIM[v+'|'+q]=r;else delete PSIM[v+'|'+q];},get sq(){return SQ},get peg(){return PEG},get rawQ(){const o={};for(const t of RAW){const k=t.v+':'+(t.q||'USD');o[k]=(o[k]||0)+1;}return o},get comb(){return {ready:BREADY,mid,bestBid,bestAsk,nb:sortedB.length,na:sortedA.length}},get raw(){return RAW.length},get flow(){const f=flow(30);return {b:Math.round(f.b),s:Math.round(f.s),r:+f.r.toFixed(3)}},get trendW(){return trendWin()},get win(){return winSec},get heatN(){return Object.fromEntries(Object.entries(HEATS).map(([w,H])=>[w,H.m.size]))},get intro(){return intro},book,get mid(){return mid},get ck(){return {ckOk,ckBad,ckLast}},get trades(){return tradeCount},get bubbles(){return bubbles.length},get hist(){return history.length},get ind(){return ind},get candles(){return candles.size},get dir(){return INBOUND?'in':'out'},get view(){return VIEW},get layout(){return {W,H,CX,CY,RMAX,R0,WIDE}},get tunnel(){const far=proj(HIST_SEC);return {FOCAL,farScale:far.s,farY:far.y-CY,dispRange,fitFrac,rangeAuto,RMAX}},zoom(f){setAuto(false);rangeFrac=Math.min(0.08,Math.max(0.0005,rangeFrac*f));},autoZoom(){setAuto(true);},get autoOn(){return rangeAuto},get zgeom(){return zbarGeom()},get conn(){return connState},get fps(){return FPS},get q(){return Q},get rc(){return reconnects},forceDrop(){ws&&ws.close();}};
 })();
 // ---------------- INFO overlay: what am I looking at? (✕ / tap outside / Esc) ----------------
 (function(){const I=document.getElementById('info'),B=document.getElementById('infoBtn');if(!I||!B)return;
